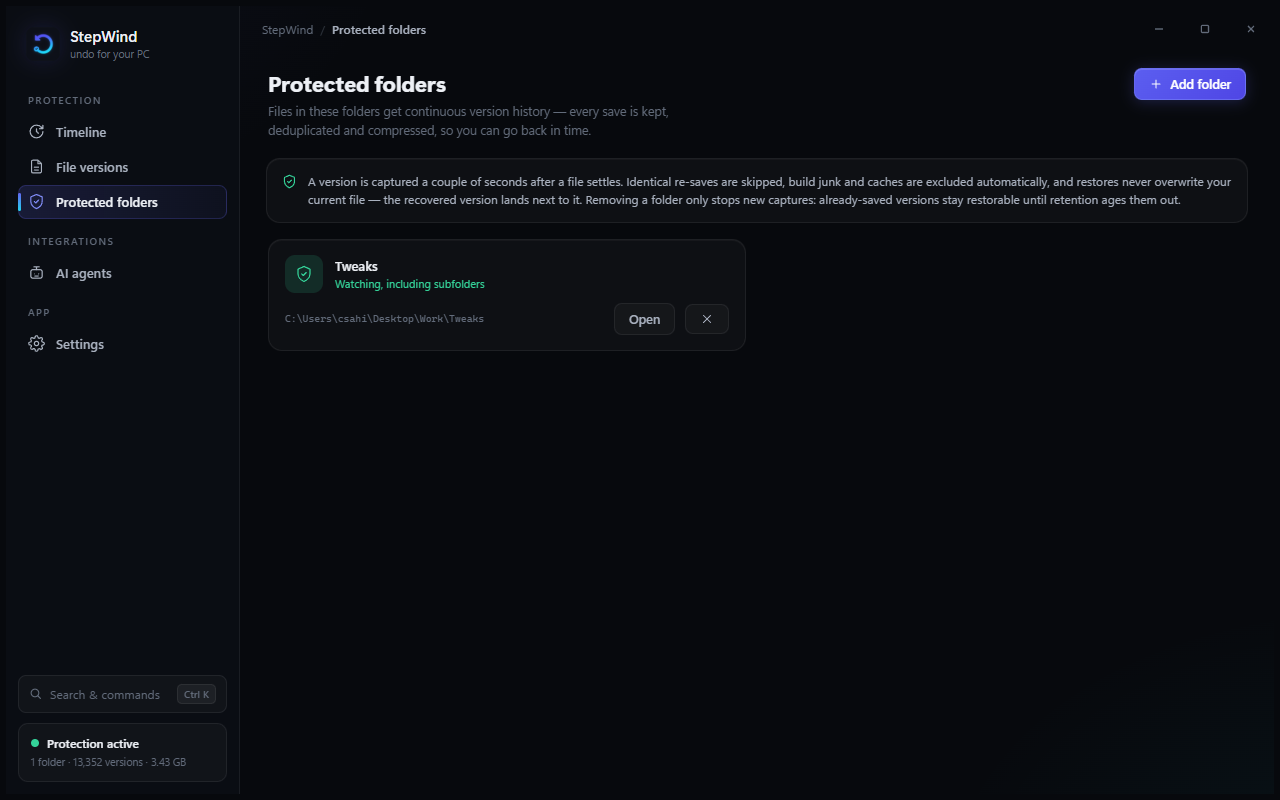
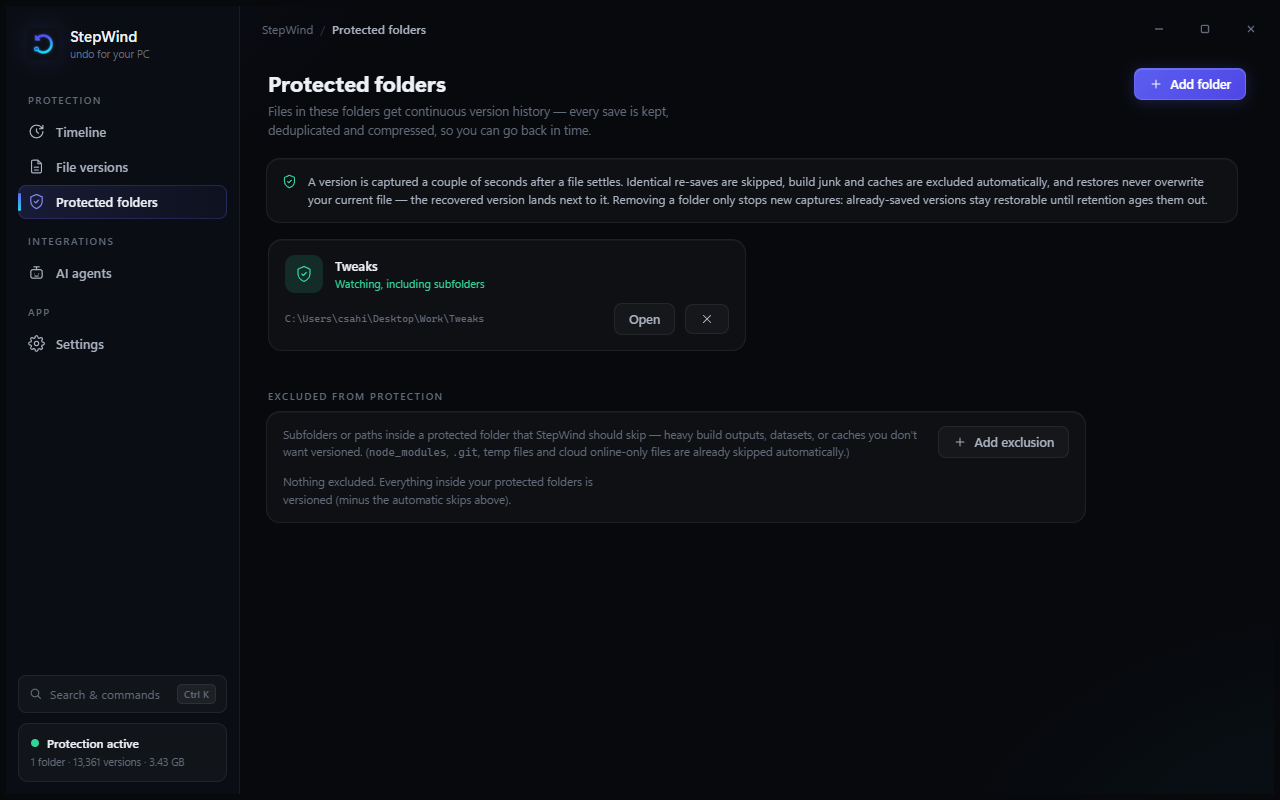
Expose user-managed exclusions in Protected folders
The engine already had an ExcludedPrefixes list (honored by WatchEngine via
PathExclusions.IsUnderExcludedPrefix, applied live on patch) but there was no
way to manage it and the bridge didn't even allow-list the key — so a user
could never exclude a subfolder from versioning. Now:

- Bridge allow-lists ExcludedPrefixes for settings patches.
- Protected folders gets an "Excluded from protection" section: a folder picker
  to add an exclusion, a list with remove buttons (versioning resumes at once),
  and — because an exclusion inside a protected folder may already have saved
  versions — adding one offers the keep-or-delete-history choice and can purge
  via the store-relative selector.
- Folders view now scrolls as one page to fit the new section.

Verified end-to-end (19-step in-app E2E): the exclusion is stored, a file
written under it gets NO history while a sibling outside it does, and versioning
resumes the instant the exclusion is removed. (Also caught a stale-build trap:
an earlier run was executing an unrebuilt binary after a compile error — fixed
the error and re-verified against a confirmed-fresh DLL.)

diff --git a/src/StepWind.App/web/app.js b/src/StepWind.App/web/app.js
@@ -667,12 +667,15 @@ function loadFiles() {
 
 /* ═══════════════ Folders view ═══════════════ */
 
+let excludedPrefixes = [];
+
 async function loadFolders() {
   const host = $("#view-folders");
   let settings = null;
   try { settings = await call("settings"); } catch { }
   const folders = settings?.WatchedFolders || [];
   watchedFolders = folders;
+  excludedPrefixes = settings?.ExcludedPrefixes || [];
 
   host.innerHTML = `
     <div class="page-head">
@@ -684,11 +687,12 @@ async function loadFolders() {
         <svg viewBox="0 0 24 24"><path d="M12 5v14M5 12h14"/></svg> Add folder
       </button></div>
     </div>
+    <div class="fo-scroll scroll-y">
     <div class="card banner">
       <svg viewBox="0 0 24 24"><path d="M12 22s8-3.4 8-10V5.5L12 2 4 5.5V12c0 6.6 8 10 8 10Z"/><path d="m9 12 2 2 4-4"/></svg>
       <div>A version is captured a couple of seconds after a file settles. Identical re-saves are skipped, build junk and caches are excluded automatically, and restores never overwrite your current file — the recovered version lands next to it. Removing a folder only stops new captures: already-saved versions stay restorable until retention ages them out.</div>
     </div>
-    <div class="card-grid enter">
+    <div class="card-grid enter" style="overflow:visible;flex:none;scrollbar-gutter:auto">
       ${folders.map((f, i) => `
         <div class="card g-card" data-i="${i}">
           <div class="g-head">
@@ -707,12 +711,106 @@ async function loadFolders() {
           </div>
         </div>`).join("")}
       ${!folders.length ? `<div class="empty" style="grid-column:1/-1"><div><div class="empty-title">No folders protected</div>Add a folder to start building version history for the files inside it.</div></div>` : ""}
+    </div>
+
+    <div class="set-label" style="margin-top:20px">Excluded from protection</div>
+    <div class="card set-card" style="max-width:820px">
+      <div style="display:flex;align-items:flex-start;gap:16px">
+        <div class="set-sub" style="margin:0;max-width:none">Subfolders or paths inside a protected folder that StepWind should skip — heavy build outputs, datasets, or caches you don't want versioned. (<span class="mono" style="font-size:11px">node_modules</span>, <span class="mono" style="font-size:11px">.git</span>, temp files and cloud online-only files are already skipped automatically.)</div>
+        <button class="btn" id="excl-add" style="flex-shrink:0">
+          <svg viewBox="0 0 24 24"><path d="M12 5v14M5 12h14"/></svg> Add exclusion
+        </button>
+      </div>
+      <div id="excl-list" style="margin-top:12px">
+        ${excludedPrefixes.length ? excludedPrefixes.map((p) => `
+          <div class="excl-row">
+            <svg viewBox="0 0 24 24" class="excl-ico"><path d="M4.9 4.9 19 19M9 4.6A9 9 0 0 1 19.4 15M15 19.4A9 9 0 0 1 4.6 9"/><circle cx="12" cy="12" r="9"/></svg>
+            <div class="excl-path" title="${esc(p)}">${esc(p)}</div>
+            <button class="btn danger-ghost excl-remove" data-p="${esc(p)}" title="Remove this exclusion (future changes here get versioned again)">
+              <svg viewBox="0 0 24 24"><path d="M18 6 6 18M6 6l12 12"/></svg>
+            </button>
+          </div>`).join("")
+        : `<div class="set-sub" style="margin:2px 0 0">Nothing excluded. Everything inside your protected folders is versioned (minus the automatic skips above).</div>`}
+      </div>
+    </div>
     </div>`;
 
   $$(".g-card", host).forEach((c, i) => stagger(c, i));
   $$(".g-open", host).forEach((b) => (b.onclick = () => call("openPath", { path: b.dataset.p })));
   $("#fo-add", host).onclick = addFolder;
   $$(".g-remove", host).forEach((b) => (b.onclick = () => removeFolder(b.dataset.p)));
+  $("#excl-add", host).onclick = addExclusion;
+  $$(".excl-remove", host).forEach((b) => (b.onclick = () => removeExclusion(b.dataset.p)));
+}
+
+/* Store-relative selector ("<protected-folder-name>/sub/path") for an absolute path inside a
+   protected folder — used to purge already-saved versions when excluding. null if the path
+   isn't under any protected folder. */
+function storeSelectorFor(absPath) {
+  const lower = absPath.toLowerCase();
+  for (const root of watchedFolders) {
+    const r = root.replace(/[\\/]+$/, "");
+    const rl = r.toLowerCase();
+    if (lower === rl || lower.startsWith(rl + "\\")) {
+      const base = r.split("\\").pop();
+      const rest = absPath.slice(r.length).replace(/^[\\/]+/, "").replace(/\\/g, "/");
+      return rest ? base + "/" + rest : base;
+    }
+  }
+  return null;
+}
+
+async function addExclusion() {
+  const folder = await call("pickFolder", { title: "Choose a folder to exclude from versioning" });
+  if (!folder) return;
+  if (excludedPrefixes.some((p) => p.toLowerCase() === folder.toLowerCase())) {
+    toast("ok", "Already excluded", folder);
+    return;
+  }
+  // An exclusion only does something inside a protected folder — warn (but still allow, e.g.
+  // if the user plans to protect the parent next).
+  const inProtected = storeSelectorFor(folder) !== null;
+  if (!inProtected) {
+    const go = await dlg.confirm("This folder isn't inside a protected one",
+      `${folder}\n\nExclusions only affect paths inside your protected folders, so this won't change anything unless you protect a parent folder later. Add it anyway?`,
+      "Add anyway");
+    if (!go) return;
+  }
+
+  try {
+    await call("patch", { patch: { ExcludedPrefixes: [...excludedPrefixes, folder] } });
+
+    // Offer to clear versions already captured under it (same keep/delete decision as folder
+    // removal), when it's inside a protected folder and thus could have history.
+    const selector = storeSelectorFor(folder);
+    if (selector) {
+      const choice = await dlg.three("Excluded — what about versions already saved here?",
+        `${folder}\n\nStepWind will stop versioning new changes here. You can keep the versions already saved (still restorable until retention ages them out) or delete them now to free space.`,
+        "Keep saved versions", "Delete them");
+      if (choice === "secondary") {
+        const res = await call("purge", { selector });
+        toast("ok", "Excluded + cleared", purgeSummary(res));
+      } else {
+        toast("ok", "Excluded", "New changes here won't be versioned.");
+      }
+    } else {
+      toast("ok", "Excluded", "New changes here won't be versioned.");
+    }
+    await loadFolders();
+    await pollStatus();
+  } catch (err) {
+    dlg.notice("Couldn't add exclusion", err.message);
+  }
+}
+
+async function removeExclusion(prefix) {
+  try {
+    await call("patch", { patch: { ExcludedPrefixes: excludedPrefixes.filter((p) => p !== prefix) } });
+    toast("ok", "Exclusion removed", "Changes here will be versioned again.");
+    await loadFolders();
+  } catch (err) {
+    dlg.notice("Couldn't remove exclusion", err.message);
+  }
 }
 
 async function addFolder() {

diff --git a/src/StepWind.App/web/styles.css b/src/StepWind.App/web/styles.css
@@ -521,6 +521,17 @@ body.no-anim .enter > * { opacity: 1 !important; transform: none !important; }
 .g-foot { display: flex; align-items: center; gap: 10px; }
 .g-path { flex: 1; min-width: 0; font-family: var(--mono); font-size: 10px; color: var(--text-3); white-space: nowrap; overflow: hidden; text-overflow: ellipsis; }
 
+/* Folders view scrolls as one page now (folder cards + the exclusions section below). */
+.fo-scroll { flex: 1; min-height: 0; }
+
+.excl-row {
+  display: flex; align-items: center; gap: 11px; padding: 8px 2px;
+}
+.excl-row + .excl-row { border-top: 1px solid var(--line); }
+.excl-ico { width: 15px; height: 15px; flex-shrink: 0; fill: none; stroke: var(--warn-text); stroke-width: 1.7; stroke-linecap: round; }
+.excl-path { flex: 1; min-width: 0; font-family: var(--mono); font-size: 11.5px; color: var(--text-2); white-space: nowrap; overflow: hidden; text-overflow: ellipsis; }
+.excl-remove { padding: 6px 8px; flex-shrink: 0; }
+
 .banner {
   display: flex; gap: 11px; padding: 13px 15px; margin-bottom: 14px;
   font-size: 12px; color: var(--text-2); line-height: 1.55;

diff --git a/src/StepWind.App/E2ERunner.cs b/src/StepWind.App/E2ERunner.cs
@@ -159,6 +159,67 @@ public partial class MainWindow
                     File.Exists(Path.Combine(src, "precious.txt")) ? "content intact" : "CONTENT MISSING");
             }
 
+            // ── 7b. Exclusions: a path excluded inside a protected folder is NOT versioned,
+            //         and versioning resumes once the exclusion is removed. Unique filenames
+            //         per run so a prior run's store can never mask a real regression. ──
+            string tag = DateTime.Now.ToString("HHmmss");
+            string exclName = $"excl-{tag}.txt", keepName = $"keep-{tag}.txt", resumeName = $"resume-{tag}.txt";
+            Directory.CreateDirectory(E2EScratch);
+            string exclDir = Path.Combine(E2EScratch, "excluded-build");
+            Directory.CreateDirectory(exclDir);
+            await Js($$"""
+                (async () => {
+                  try {
+                    const s = await call('settings');
+                    const set = (s.WatchedFolders || []).filter(f => f.toLowerCase() !== {{JsonSerializer.Serialize(E2EScratch.ToLowerInvariant())}});
+                    set.push({{JsonSerializer.Serialize(E2EScratch)}});
+                    await call('patch', { patch: { WatchedFolders: set, ExcludedPrefixes: [{{JsonSerializer.Serialize(exclDir)}}] } });
+                    const after = await call('settings');
+                    window.__xStored = (after.ExcludedPrefixes || []).some(p => p.toLowerCase() === {{JsonSerializer.Serialize(exclDir.ToLowerInvariant())}});
+                  } catch (e) { window.__xStored = 'ERR:' + e.message; }
+                })()
+                """);
+            await WaitJs("window.__xStored !== undefined");
+            Log("exclusion-stored", await Js("window.__xStored") == "true", (await Js("String(window.__xStored)")).Trim('"'));
+
+            await Task.Delay(2500); // let the watch rebuild + settle before writing
+            await File.WriteAllTextAsync(Path.Combine(exclDir, exclName), "should NOT be versioned");
+            await File.WriteAllTextAsync(Path.Combine(E2EScratch, keepName), "should be versioned");
+            await Task.Delay(6000); // capture window
+
+            await Js($$"""
+                (async () => {
+                  const ex = await call('browse', { path: '', query: '{{exclName}}' });
+                  const inc = await call('browse', { path: '', query: '{{keepName}}' });
+                  window.__xExcluded = ex.length === 0;   // excluded file has NO history
+                  window.__xIncluded = inc.length > 0;    // sibling outside the exclusion does
+                })()
+                """);
+            await WaitJs("window.__xExcluded !== undefined", 12000);
+            Log("excluded-file-not-versioned", await Js("window.__xExcluded") == "true");
+            Log("sibling-still-versioned", await Js("window.__xIncluded") == "true");
+
+            // Remove the exclusion → a fresh file in the same dir IS versioned.
+            await Js("call('patch', { patch: { ExcludedPrefixes: [] } }).then(() => window.__x3 = true)");
+            await WaitJs("window.__x3 === true");
+            await Task.Delay(2500);
+            await File.WriteAllTextAsync(Path.Combine(exclDir, resumeName), "now it SHOULD be versioned");
+            await Task.Delay(6000);
+            await Js($"call('browse', {{ path: '', query: '{resumeName}' }}).then(r => window.__xResumed = r.length > 0)");
+            await WaitJs("window.__xResumed !== undefined", 12000);
+            Log("versioning-resumes-after-unexclude", await Js("window.__xResumed") == "true");
+
+            // Clean up this test's protected folder + history.
+            await Js("""
+                (async () => {
+                  const s = await call('settings');
+                  await call('patch', { patch: { WatchedFolders: (s.WatchedFolders||[]).filter(f => !f.toLowerCase().includes('_swweb_e2e')), ExcludedPrefixes: [] } });
+                  await call('purge', { selector: '_swweb_e2e' });
+                  window.__xClean = true;
+                })()
+                """);
+            await WaitJs("window.__xClean === true", 12000);
+
             // ── 8. Agents view renders real detections (no connect/disconnect — real machine) ──
             await Js("navigate('agents')");
             Log("agents-render", await WaitJs("document.querySelectorAll('#view-agents .g-card').length >= 10"));

diff --git a/src/StepWind.App/Bridge.cs b/src/StepWind.App/Bridge.cs
@@ -37,9 +37,9 @@ public sealed class Bridge(MainWindow window)
     /// <summary>Settings keys the web layer may patch. Anything else is rejected.</summary>
     private static readonly HashSet<string> AllowedSettingsKeys = new(StringComparer.Ordinal)
     {
-        "WatchedFolders", "AutoUpdateEnabled", "EncryptionEnabled", "FlightRecorderEnabled",
-        "TimelineProtectedOnly", "RetentionKeepAllHours", "RetentionHourlyDays",
-        "RetentionDailyDays", "RetentionMaxAgeDays", "RetentionMaxVersionsPerFile",
+        "WatchedFolders", "ExcludedPrefixes", "AutoUpdateEnabled", "EncryptionEnabled",
+        "FlightRecorderEnabled", "TimelineProtectedOnly", "RetentionKeepAllHours",
+        "RetentionHourlyDays", "RetentionDailyDays", "RetentionMaxAgeDays", "RetentionMaxVersionsPerFile",
     };
 
     public void NotifyWindowState(bool maximized) =>

diff --git a/CHANGELOG.md b/CHANGELOG.md
@@ -6,6 +6,15 @@ All notable changes to StepWind are documented here.
 
 Initial release — an undo button for your whole PC (and a safety net for AI coding agents).
 
+- **User-managed exclusions (Protected folders → Excluded).** You can now exclude a subfolder
+  or path inside a protected folder from versioning — heavy build outputs, datasets, or caches
+  you don't want kept. The engine already honored an exclusion list (and still auto-skips
+  `node_modules`/`.git`/temp/cloud-online-only files); this exposes it: a folder picker to add
+  one, a list to remove them (versioning resumes immediately), and — since an exclusion inside
+  a protected folder may already have saved versions — adding one offers the same keep-or-
+  delete-history choice as removing a folder. Verified end-to-end: a file written under an
+  exclusion gets no history while its sibling does, and versioning resumes the instant the
+  exclusion is removed.
 - **Full light theme (System / Light / Dark).** A soft-white light theme built to the same
   standard as the dark one: every surface, overlay, shadow, and text accent is a theme token
   (no hardcoded color assumes a dark background), with light-specific diff colors, card

diff --git a/README.md b/README.md
@@ -83,6 +83,9 @@ looks wrong. Disconnecting removes exactly our entry and nothing else.
 - **Your data, your controls** — removing a folder asks whether to keep or delete its saved
   versions; Settings has delete-all, clean-up-unprotected, and run-cleanup-now (all confirmed
   first); retention windows are editable; the timeline can be scoped to protected folders only.
+- **Exclusions** — exclude any subfolder or path inside a protected folder (heavy build
+  outputs, datasets, caches) from Protected folders → Excluded; adding one offers to clear
+  the versions already saved under it. This is on top of the automatic skips.
 - **Smart exclusions** — build junk (`node_modules`, `target`…), caches, and — importantly —
   OneDrive online-only files are skipped (versioning a placeholder would force a full download).
   Files held under an *exclusive* lock (e.g. an open Outlook PST) are captured when the app